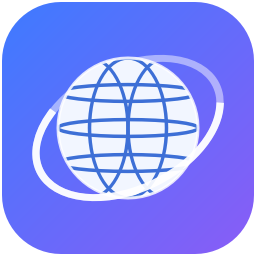
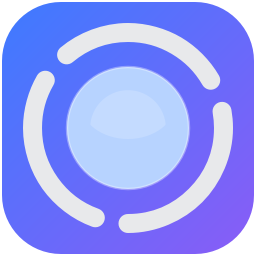
重新设计图标：淡蓝圆心 + 灰色分段环（Chrome 风格）
按用户想法：中心淡蓝色圆(#b7d3ff 带柔光高光)，外圈灰色环(#e8e9eb)
切成 3 段弧（每段 100°、缺口 20°、圆头端点），保留蓝紫渐变圆角底。
已重新生成全套 hicolor 尺寸并重新安装到系统图标目录。

diff --git a/tools/make_icon.py b/tools/make_icon.py
@@ -33,52 +33,33 @@ def render(size: int) -> QImage:
     p.setBrush(QBrush(grad))
     p.drawRoundedRect(QRectF(4 * s, 4 * s, 504 * s, 504 * s), 118 * s, 118 * s)
 
-    # ---- 倾斜轨道环（后段，模拟浏览器/网络） ----
-    p.save()
-    p.translate(256 * s, 256 * s)
-    p.rotate(-26)
-    p.setPen(QPen(QColor(255, 255, 255, 120), 15 * s))
+    # ---- 灰色分段环（像 Chrome 一样被切成 3 段） ----
+    # 环中心线半径 191，环宽 38；每段弧 100°，段间缺口 20°
+    ring_r = 191 * s
+    ring_w = 38 * s
+    ring_rect = QRectF(256 * s - ring_r, 256 * s - ring_r, 2 * ring_r, 2 * ring_r)
+    p.setPen(QPen(QColor("#e8e9eb"), ring_w, Qt.PenStyle.SolidLine, Qt.PenCapStyle.RoundCap))
     p.setBrush(Qt.BrushStyle.NoBrush)
-    p.drawEllipse(QRectF(-196 * s, -122 * s, 392 * s, 244 * s))
-    p.restore()
+    for start in (-90, 30, 150):
+        p.drawArc(ring_rect, start * 16, 100 * 16)
 
-    # ---- 地球 ----
-    r = 140 * s
-    earth = QRectF(256 * s - r, 256 * s - r, 2 * r, 2 * r)
+    # ---- 中心淡蓝色圆 ----
+    ball_r = 122 * s
+    ball = QRectF(256 * s - ball_r, 256 * s - ball_r, 2 * ball_r, 2 * ball_r)
+    p.setPen(QPen(QColor(255, 255, 255, 90), 5 * s))
+    p.setBrush(QBrush(QColor("#b7d3ff")))
+    p.drawEllipse(ball)
+
+    # 淡蓝圆上的高光（左上柔光，让球更有质感）
+    p.save()
+    hl = QPainterPath()
+    hl.addEllipse(QRectF(256 * s - ball_r * 0.62, 256 * s - ball_r * 0.62,
+                         ball_r * 1.24, ball_r * 1.24))
+    p.setClipPath(hl)
     p.setPen(Qt.PenStyle.NoPen)
-    p.setBrush(QBrush(QColor("#f2f6ff")))
-    p.drawEllipse(earth)
-
-    # 经纬线（裁剪在地球内）
-    p.save()
-    clip = QPainterPath()
-    clip.addEllipse(earth)
-    p.setClipPath(clip)
-    line_pen = QPen(QColor("#3d6fd6"), 7 * s)
-    p.setPen(line_pen)
-    p.setBrush(Qt.BrushStyle.NoBrush)
-    cx, cy = 256 * s, 256 * s
-    # 经线（竖椭圆）
-    for k in (-0.55, 0.0, 0.55):
-        p.drawEllipse(QRectF(cx + k * r - 0.55 * r, cy - r, 1.1 * r, 2 * r))
-    # 纬线（赤道 + 上下两条，横椭圆）
-    p.drawEllipse(QRectF(cx - r, cy - 0.12 * r, 2 * r, 0.24 * r))
-    p.drawEllipse(QRectF(cx - r, cy - 0.62 * r, 2 * r, 0.24 * r))
-    p.drawEllipse(QRectF(cx - r, cy + 0.38 * r, 2 * r, 0.24 * r))
-    p.restore()
-
-    # 地球描边
-    p.setPen(QPen(QColor(255, 255, 255, 210), 6 * s))
-    p.setBrush(Qt.BrushStyle.NoBrush)
-    p.drawEllipse(earth)
-
-    # ---- 轨道环（前段，压在地球上方，更有层次） ----
-    p.save()
-    p.translate(256 * s, 256 * s)
-    p.rotate(-26)
-    p.setPen(QPen(QColor(255, 255, 255, 235), 15 * s))
-    p.setBrush(Qt.BrushStyle.NoBrush)
-    p.drawArc(QRectF(-196 * s, -122 * s, 392 * s, 244 * s), 130 * 16, 210 * 16)
+    p.setBrush(QBrush(QColor(255, 255, 255, 46)))
+    p.drawEllipse(QRectF(256 * s - ball_r * 0.78, 256 * s - ball_r * 1.02,
+                         ball_r * 1.56, ball_r * 1.2))
     p.restore()
 
     p.end()
